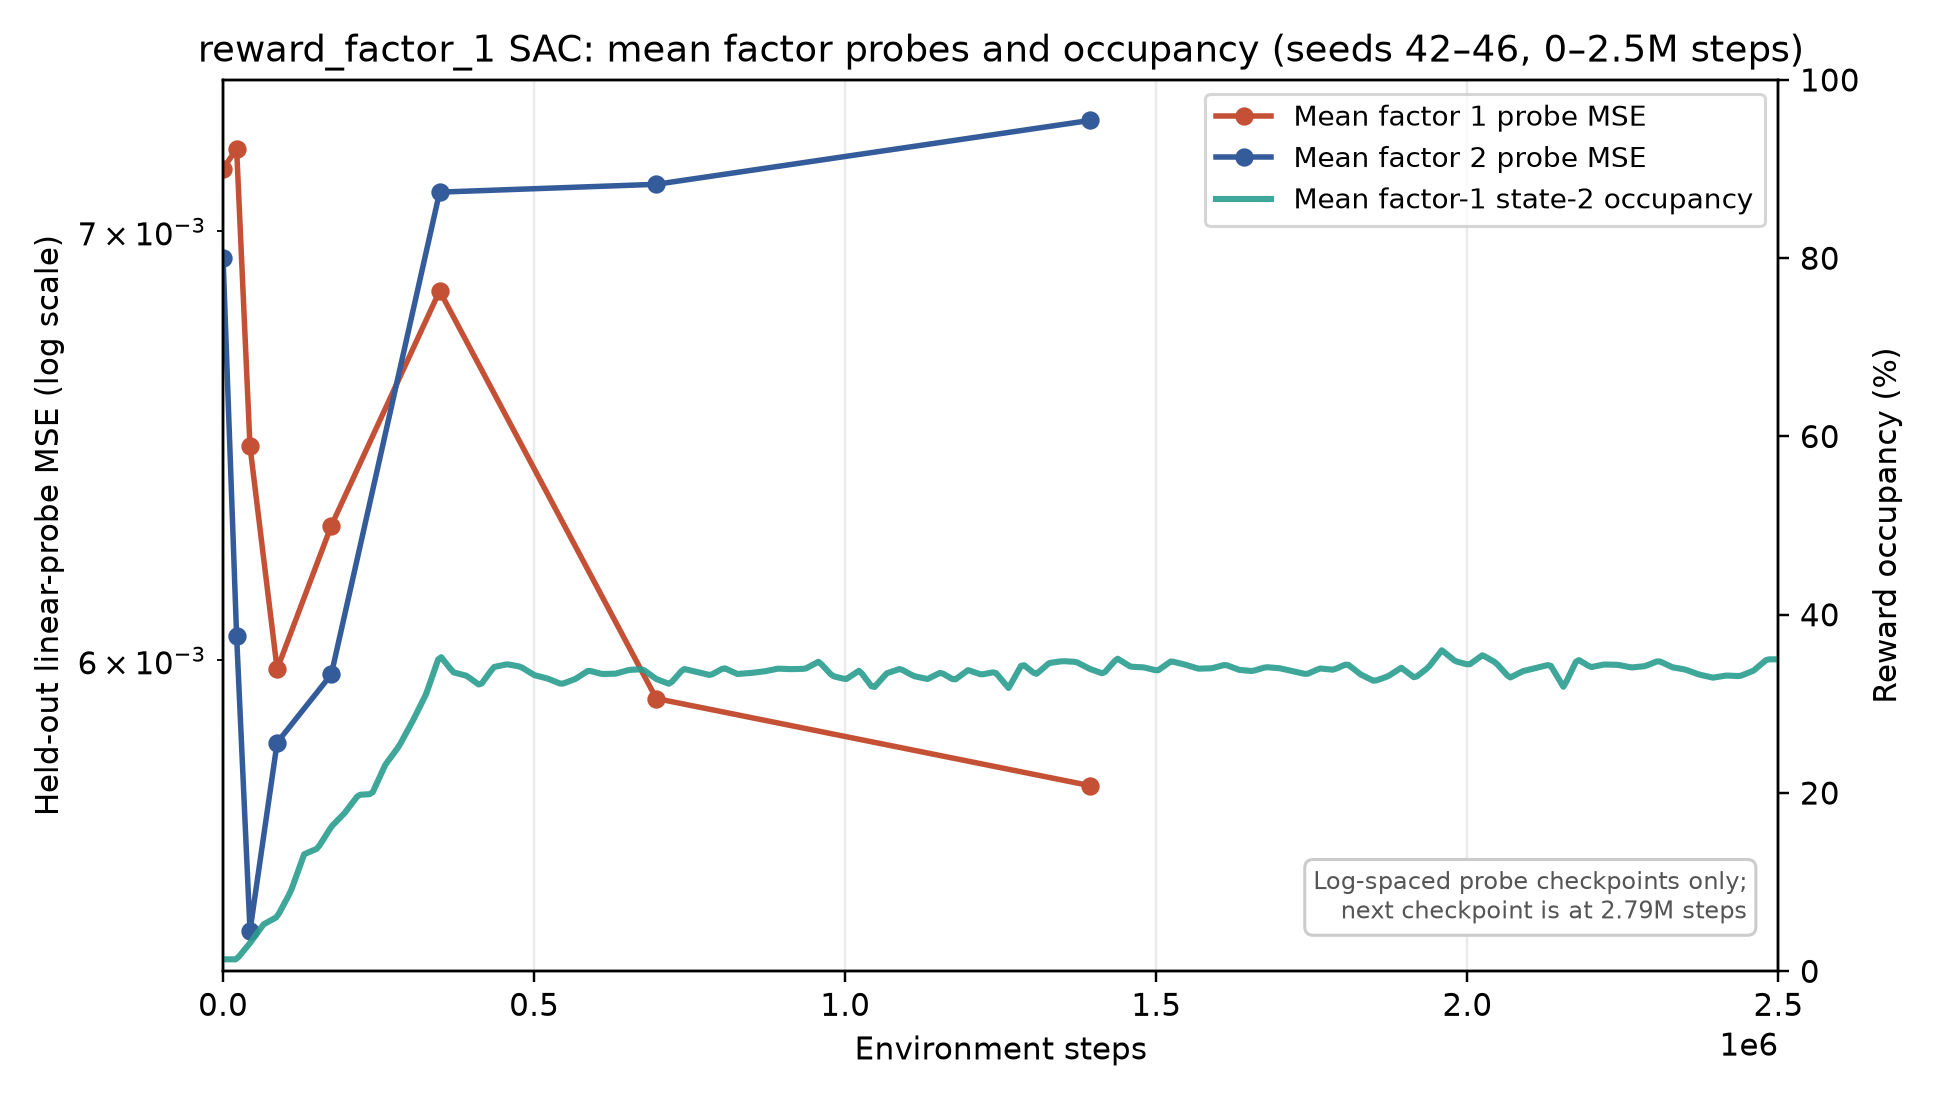
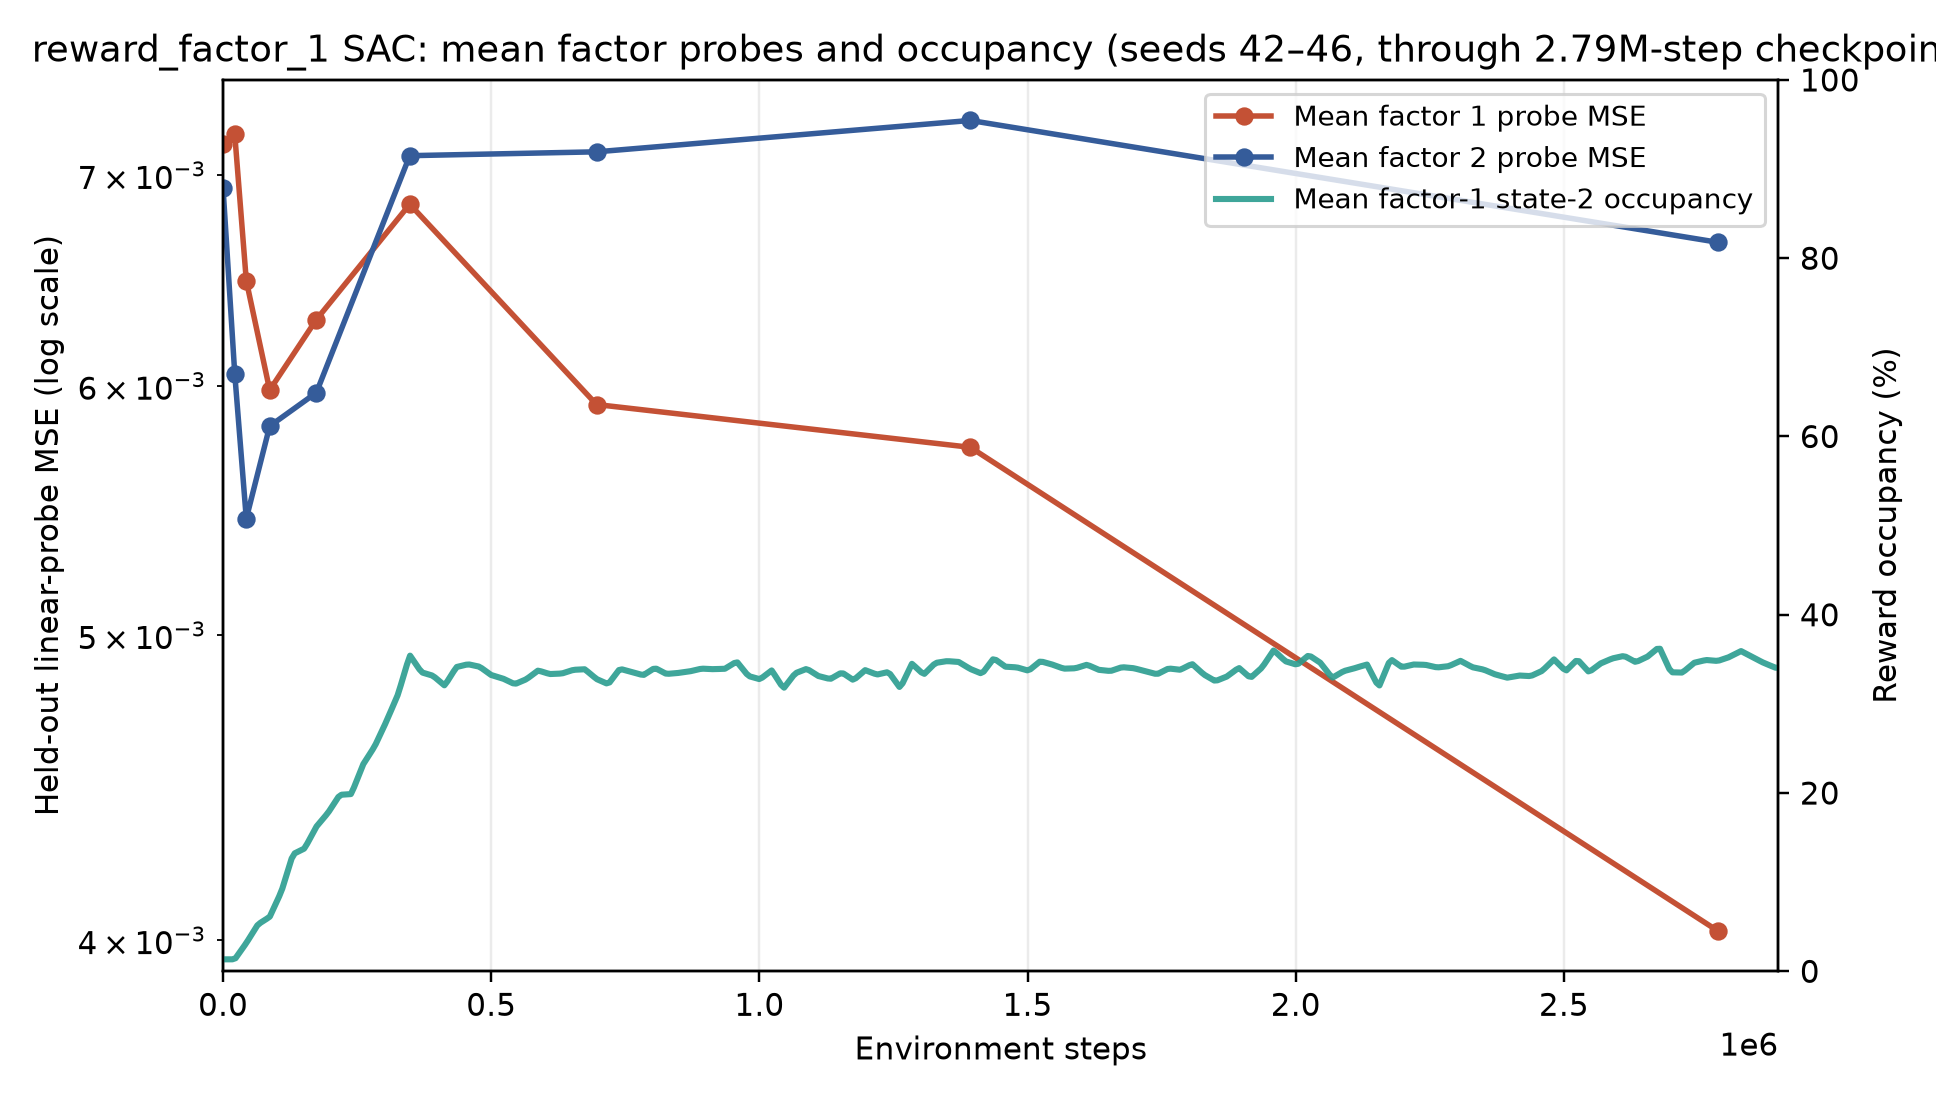
Extend reward_factor_1 plot through 2.78M probe checkpoint

diff --git a/experiments/two_factor_reward_state_SAC_cycle_1/plot_reward_factor_1_mse_occupancy.py b/experiments/two_factor_reward_state_SAC_cycle_1/plot_reward_factor_1_mse_occupancy.py
@@ -14,7 +14,7 @@ import numpy as np
 STUDY_DIR = Path(__file__).resolve().parent
 CONDITION = "reward_factor_1"
 SEEDS = (42, 43, 44, 45, 46)
-MAX_STEPS = 2_500_000
+MAX_STEPS = 2_900_000  # include the log-spaced probe checkpoint at ~2.78M
 EPISODE_LENGTH = 1024
 PROBE_TARGETS = (
     ("factor_1", "Mean factor 1 probe MSE", "#c45135"),
@@ -30,6 +30,17 @@ def _run_dir(seed: int) -> Path:
         / "results"
         / f"two_factor_reward_state_SAC_cycle_1-{CONDITION}-seed{seed}"
     )
+
+
+def _probe_step_limit() -> float:
+    summary = json.loads(
+        (_run_dir(SEEDS[0]) / "condition_summary.json").read_text()
+    )
+    steps = [float(row["agent_steps"]) for row in summary["checkpoint_reports"]]
+    for step in steps:
+        if step > 2_500_000:
+            return step
+    return float(steps[-1])
 
 
 def _load_probe_trajectories(
@@ -77,20 +88,8 @@ def _load_occupancy_trajectory() -> tuple[np.ndarray, np.ndarray]:
     return grid, mean_occupancy
 
 
-def _next_probe_step() -> float:
-    summary = json.loads(
-        (_run_dir(SEEDS[0]) / "condition_summary.json").read_text()
-    )
-    steps = [float(row["agent_steps"]) for row in summary["checkpoint_reports"]]
-    for step in steps:
-        if step > MAX_STEPS:
-            return step
-    return float(steps[-1])
-
-
 def plot_mean_trajectory(path: Path) -> None:
     occ_steps, occ_pct = _load_occupancy_trajectory()
-    next_probe_step = _next_probe_step()
 
     figure, left_axis = plt.subplots(figsize=(8.8, 5.0))
     right_axis = left_axis.twinx()
@@ -123,18 +122,6 @@ def plot_mean_trajectory(path: Path) -> None:
     right_axis.set_ylabel("Reward occupancy (%)")
     right_axis.set_ylim(0.0, 100.0)
 
-    left_axis.annotate(
-        "Log-spaced probe checkpoints only;\n"
-        f"next checkpoint is at {next_probe_step / 1e6:.2f}M steps",
-        xy=(0.98, 0.05),
-        xycoords="axes fraction",
-        ha="right",
-        va="bottom",
-        fontsize=8,
-        color="#555555",
-        bbox={"boxstyle": "round,pad=0.35", "fc": "white", "ec": "#cccccc"},
-    )
-
     lines_left, labels_left = left_axis.get_legend_handles_labels()
     lines_right, labels_right = right_axis.get_legend_handles_labels()
     left_axis.legend(
@@ -146,7 +133,7 @@ def plot_mean_trajectory(path: Path) -> None:
     left_axis.grid(alpha=0.25)
     left_axis.set_title(
         "reward_factor_1 SAC: mean factor probes and occupancy "
-        "(seeds 42–46, 0–2.5M steps)"
+        f"(seeds 42–46, through {_probe_step_limit() / 1e6:.2f}M-step checkpoint)"
     )
     figure.tight_layout()
     path.parent.mkdir(parents=True, exist_ok=True)
